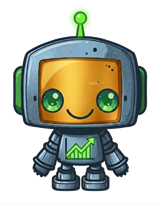
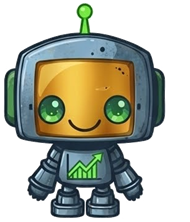
ניפנוף אמיתי ומבודד ליד של טולי - שתי תמונות במקום אחת
טל סיפק גיליון תנוחות חדש (6 פוזות של הרובוט). חתכתי ממנו זוג
תמונות מיושרות בדיוק (מנוחה + ניפנוף, אותו קנה מידה ומיקום),
הסרתי את הרקע הלבן, והחלפתי בין השתיים באנימציית CSS - כך
שהיד באמת מונפת ולא רק כל הדמות מתנדנדת. תמונת ה"מנוחה" גם
הוחלפה בגרסה החדשה כדי שהשתיים יתאימו זו לזו בדיוק.

diff --git a/style.css b/style.css
@@ -1939,11 +1939,13 @@ body.keyboard-nav [tabindex]:focus {
 .tuli-fab {
   width: 77px; height: 77px; border: none; background: none; cursor: pointer;
   display: flex; align-items: center; justify-content: center; padding: 0;
-  filter: drop-shadow(0 3px 10px rgba(0,0,0,.35)); transition: var(--transition);
+  position: relative; filter: drop-shadow(0 3px 10px rgba(0,0,0,.35)); transition: var(--transition);
 }
 .tuli-fab:hover { transform: scale(1.06); }
 .tuli-fab:focus-visible { outline: 3px solid var(--gold); outline-offset: 3px; border-radius: 50%; }
 .tuli-fab img { width: 67px; height: 67px; object-fit: contain; animation: tuliBob 5s ease-in-out infinite; transform-origin: 50% 100%; }
+.tuli-fab .tuli-fab-rest { animation: tuliBob 5s ease-in-out infinite, tuliWaveOut 5s ease-in-out infinite; }
+.tuli-fab .tuli-fab-wave { position: absolute; inset: 0; animation: tuliBob 5s ease-in-out infinite, tuliWaveIn 5s ease-in-out infinite; }
 @keyframes tuliBob {
   0%, 30%, 100% { transform: translateY(0) rotate(0deg); }
   6% { transform: translateY(-3px) rotate(-12deg); }
@@ -1951,8 +1953,12 @@ body.keyboard-nav [tabindex]:focus {
   18% { transform: translateY(-3px) rotate(-12deg); }
   24% { transform: translateY(-2px) rotate(9deg); }
 }
+@keyframes tuliWaveOut { 0%, 4%, 26%, 100% { opacity: 1; } 10%, 20% { opacity: 0; } }
+@keyframes tuliWaveIn  { 0%, 4%, 26%, 100% { opacity: 0; } 10%, 20% { opacity: 1; } }
 @media (prefers-reduced-motion: reduce) {
   .tuli-fab img { animation: none; }
+  .tuli-fab .tuli-fab-rest { opacity: 1; }
+  .tuli-fab .tuli-fab-wave { opacity: 0; }
 }
 .tuli-panel {
   position: absolute; bottom: 68px; left: 0; width: 320px; max-height: 480px;

diff --git a/index.html b/index.html
@@ -2124,7 +2124,8 @@
   <!-- ========== TULI - עוזר וירטואלי ========== -->
   <div class="tuli-widget" id="tuli-widget">
     <button class="tuli-fab" id="tuli-fab" aria-label="פתח את טולי - העוזר הוירטואלי" aria-expanded="false">
-      <img src="tuli-bot.png" alt="" />
+      <img class="tuli-fab-rest" src="tuli-bot.png" alt="" />
+      <img class="tuli-fab-wave" src="tuli-bot-wave.png" alt="" />
     </button>
     <div class="tuli-panel" id="tuli-panel" role="dialog" aria-label="צ'אט עם טולי" aria-hidden="true">
       <div class="tuli-panel-head">

diff --git a/en/index.html b/en/index.html
@@ -1149,7 +1149,8 @@
   </style>
   <div class="tuli-widget" id="tuli-widget">
     <button class="tuli-fab" id="tuli-fab" aria-label="Open Tuli - the virtual assistant" aria-expanded="false">
-      <img src="../tuli-bot.png" alt="" />
+      <img class="tuli-fab-rest" src="../tuli-bot.png" alt="" />
+      <img class="tuli-fab-wave" src="../tuli-bot-wave.png" alt="" />
     </button>
     <div class="tuli-panel" id="tuli-panel" role="dialog" aria-label="Chat with Tuli" aria-hidden="true">
       <div class="tuli-panel-head">
